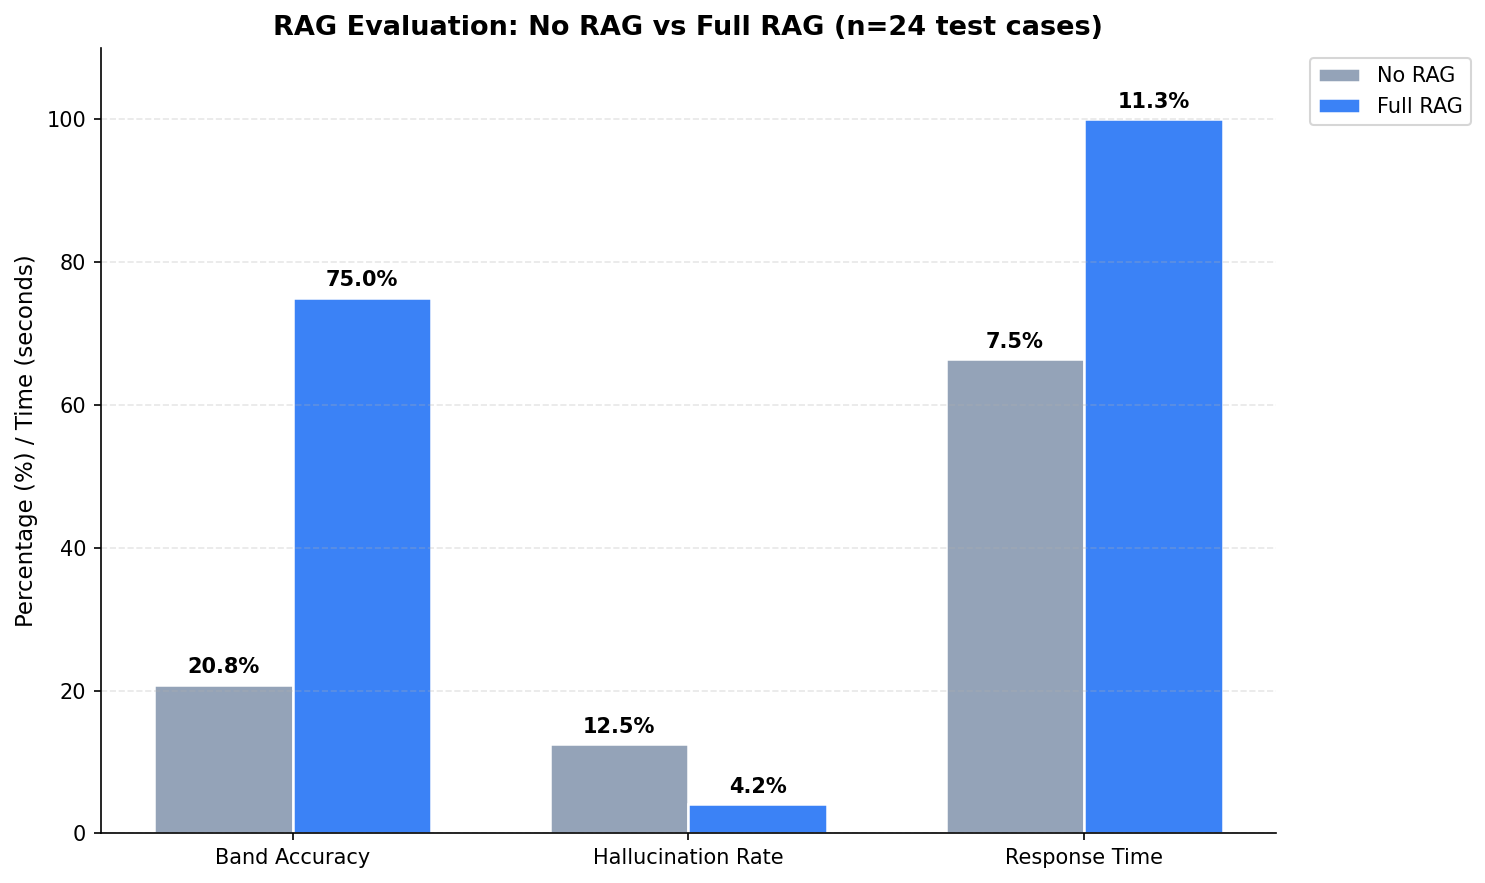
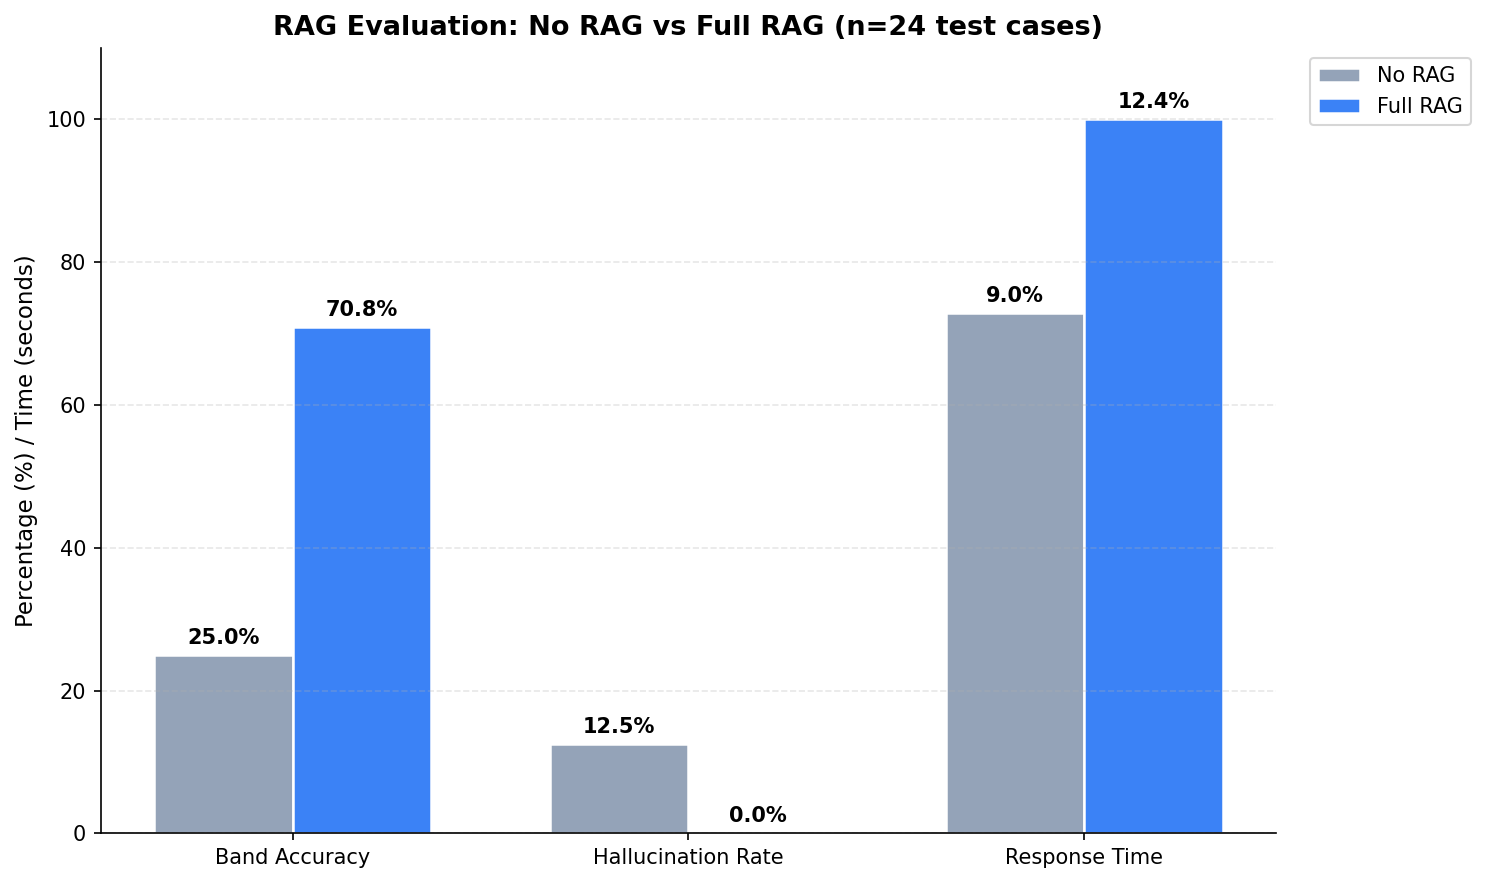
added more keywords, and rerun the script

diff --git a/backend/evaluation/rag_evaluation.py b/backend/evaluation/rag_evaluation.py
@@ -28,7 +28,7 @@ llm = ChatGoogleGenerativeAI(model=LLM_MODEL, google_api_key=GEMINI_API_KEY, tem
 # ============================================================
 
 MUET_KEYWORDS = {
-    "reading": ["part", "score", "correct", "skipped", "strong", "weak", "passage", "multiple choice"],
+    "reading": ["part", "score", "correct", "skipped", "strong", "weak", "passage", "multiple choice", "simple", "factual information",],
     "listening": ["part", "dialogue", "monologue", "score", "correct", "skipped", "strong", "weak", "speaker"],
     "writing": ["task", "word count", "minimum 100 words", "notes", "grammar", "vocabulary", "tone", "suggested answer"],
     "speaking": ["fluency", "filler", "uh", "um", "presentation", "hesitation", "pronunciation", "transcript"]
@@ -47,8 +47,31 @@ def check_muet_keywords(text, component):
 # ============================================================
 
 TEST_CASES = [
-
-    # SPEAKING - Using correct session IDs
+    # READING
+    (1, "5bce6d26-b59c-40c5-b20b-ac041603cfe0", "reading", "Band 1"),
+    (2, "2b5efb8c-c1d8-464a-ad3c-2d1a433b0743", "reading", "Band 2"),
+    (3, "08852237-1980-4455-9d2d-71e887223bb4", "reading", "Band 3"),
+    (4, "17bc7829-d5d1-446c-8d8c-ea105d897554", "reading", "Band 4"),
+    (5, "55b0b754-b016-4994-a472-8bc7cbd23f4b", "reading", "Band 5"),
+    (6, "fe2a8b16-ccf4-4ee4-824d-822d014e76e0", "reading", "Band 5+"),
+    
+    # LISTENING
+    (7, "129dda84-e5d1-40bd-b89b-e0a339d8dbf6", "listening", "Band 1"),
+    (8, "aeca4d33-2681-4ef5-a5d0-1bcf146d7eb5", "listening", "Band 2"),
+    (9, "0b87957e-f8aa-4315-80de-ba2718f02169", "listening", "Band 3"),
+    (10, "02017282-9cf4-49a1-8fbc-a51182bdc183", "listening", "Band 4"),
+    (11, "a4f7d38d-8ae4-4a6e-b25b-df54851f2ec2", "listening", "Band 5"),
+    (12, "77eead30-d9d6-46fc-8a63-013e0e53a7ff", "listening", "Band 5+"),
+    
+    # WRITING
+    (13, "36376c8a-ab54-46c6-8a8d-2066c8239309", "writing", "Band 1"),
+    (14, "8f1d6d81-7bae-496c-89b8-4f4bc77f6e64", "writing", "Band 2"),
+    (15, "fbb21441-4173-404e-907d-aeb71d7ec50c", "writing", "Band 3"),
+    (16, "45b8781a-eda2-46f7-90c2-f51315815ed6", "writing", "Band 4"),
+    (17, "56c39503-702b-49d5-8f44-4f35961d354d", "writing", "Band 5"),
+    (18, "a29aa0ea-0ffc-4c3d-a278-18fb1bbe4e87", "writing", "Band 5+"),
+    
+    # SPEAKING
     (19, "23aee447-379f-4f81-99f7-bd9bf3cf1e30", "speaking", "Band 1"),
     (20, "4312d051-bf8d-4ec9-954a-53a746ba001c", "speaking", "Band 2"),
     (21, "798fbce8-500d-4662-8aa6-bde3d4ee6d4f", "speaking", "Band 3"),
@@ -341,6 +364,8 @@ def run_evaluation():
         no_rag_times.append(nr_time)
         full_rag_times.append(fr_time)
         
+        # Hallucination detection for all components including Speaking
+        # A feedback is hallucinated if it contains fewer than 2 MUET related words
         if nr_muet_count < 2:
             no_rag_hallucinations += 1
         if fr_muet_count < 2:

diff --git a/backend/evaluation/plot_results.py b/backend/evaluation/plot_results.py
@@ -28,7 +28,7 @@ CLUSTER_COLORS = {
 # RAG EVALUATION CHART
 # ============================================================
 
-RAG_CSV_PATH = os.path.join(BASE, "rag_eval_results_1.csv")
+RAG_CSV_PATH = os.path.join(BASE, "rag_eval_results_2.csv")
 
 def calculate_rag_metrics():
     with open(RAG_CSV_PATH, 'r') as f:
